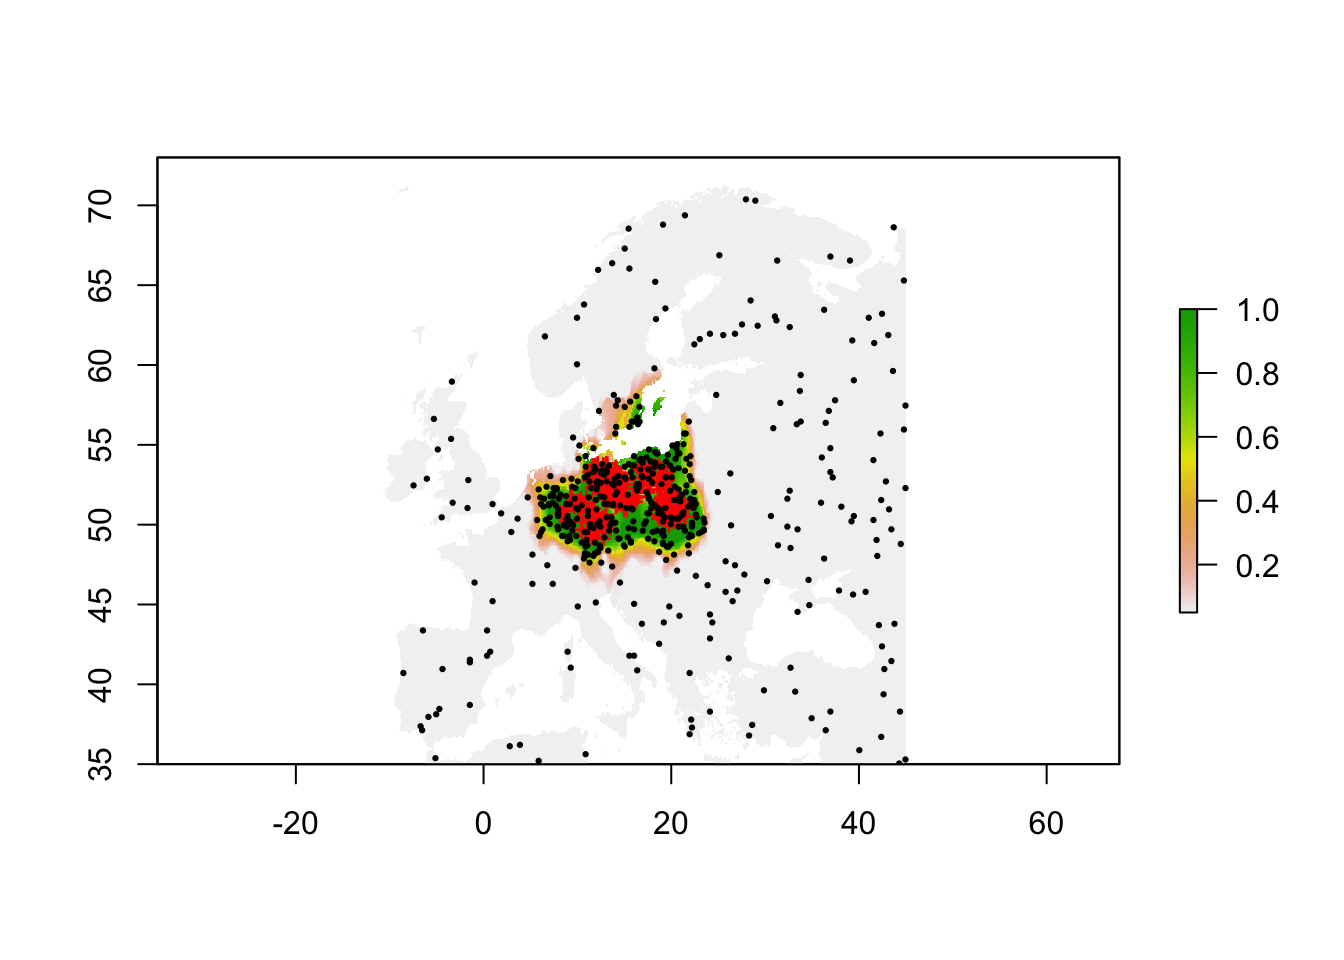
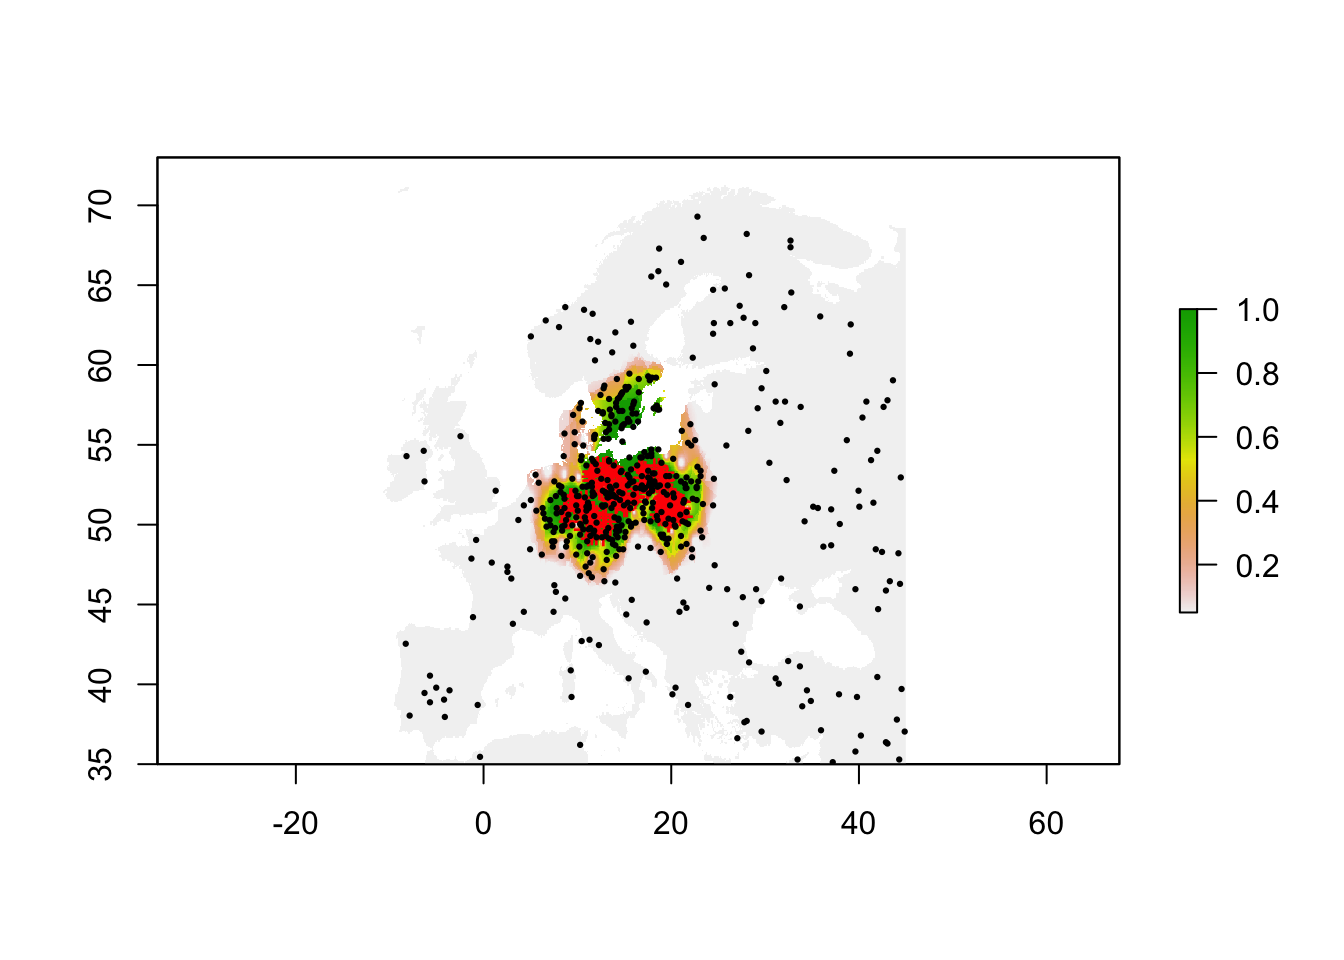
update pseudo-absences workflow

diff --git a/5_pseudoabsence.html b/5_pseudoabsence.html
@@ -572,44 +572,23 @@ points(bg_idw,pch=19,cex=0.3)</code></pre>
 <div id="workflow-for-joining-presence-and-backgroundpseudo-absence-data" class="section level1">
 <h1><span class="header-section-number">4</span> Workflow for joining presence and background/pseudo-absence data</h1>
 <p>In session 2, we have already learned how to join species data and environmental data (at 10 min resolution) using the Alpine Shrew as example species. Here, we will revisit this example, sample random background data and join these with environmental data to come up with a datset containing presences and background data as well as the climatic predictors.</p>
-<pre class="r"><code># Load the data set from session 2 containing species presence data and climate data:
-load(&#39;data/gbif_shrew_env.RData&#39;)
+<pre class="r"><code># Load the species presence data (here, the data set from session 1):
+load(&#39;data/gbif_shrew.RData&#39;)
 
-head(gbif_shrew_env)</code></pre>
+head(gbif_shrew[,1:4])</code></pre>
 <pre><code>##          key             scientificName decimalLatitude decimalLongitude
 ## 1 2251919320 Sorex alpinus Schinz, 1837        47.69411        13.681602
 ## 2 2330155268 Sorex alpinus Schinz, 1837        48.12057         8.109648
 ## 3 2269283117 Sorex alpinus Schinz, 1837        46.39159        10.421819
 ## 4 2610972391 Sorex alpinus Schinz, 1837        46.02428        10.828994
-## 6 2609080674 Sorex alpinus Schinz, 1837        46.19628        11.263646
-## 7 2423224540 Sorex alpinus Schinz, 1837        46.98664        10.811803
-##       basisOfRecord speciesKey       species year  cells bio1 bio2 bio3 bio4
-## 1 HUMAN_OBSERVATION    2435986 Sorex alpinus 2019 547643   47   94   33 6777
-## 2 HUMAN_OBSERVATION    2435986 Sorex alpinus 2019 543289   74   80   32 6125
-## 3 HUMAN_OBSERVATION    2435986 Sorex alpinus 2019 564903   14   64   28 5644
-## 4 HUMAN_OBSERVATION    2435986 Sorex alpinus 2019 569225   65   82   30 6522
-## 6 HUMAN_OBSERVATION    2435986 Sorex alpinus 2019 567068   85   94   31 6971
-## 7 HUMAN_OBSERVATION    2435986 Sorex alpinus 2019 558425  -25   53   26 5181
-##   bio5 bio6 bio7 bio8 bio9 bio10 bio11 bio12 bio13 bio14 bio15 bio16 bio17
-## 1  196  -88  284  132    1   132   -42  1495   183    89    26   529   293
-## 2  209  -41  250  151   30   151    -5  1147   120    77    15   342   250
-## 3  134  -90  224   85  -55    85   -55  1022   127    52    28   355   169
-## 4  211  -60  271  145  -19   148   -19   768    98    32    35   268   102
-## 6  242  -55  297  172   -7   172    -7   786    99    33    34   274   104
-## 7   78 -120  198   40  -86    41   -86  1464   162    96    17   464   310
-##   bio18 bio19
-## 1   529   324
-## 2   342   270
-## 3   355   169
-## 4   266   102
-## 6   274   104
-## 7   429   320</code></pre>
+## 5 2397538060 Sorex alpinus Schinz, 1837        46.39279        10.363006
+## 6 2609080674 Sorex alpinus Schinz, 1837        46.19628        11.263646</code></pre>
 <pre class="r"><code># Plot the species presences
 library(maptools)
 data(wrld_simpl)
 
 plot(wrld_simpl,xlim=c(-12,45), ylim=c(35,73))
-points(gbif_shrew_env$decimalLongitude, gbif_shrew_env$decimalLatitude, col=&#39;red&#39;,  pch=19)</code></pre>
+points(gbif_shrew$decimalLongitude, gbif_shrew$decimalLatitude, col=&#39;red&#39;,  pch=19)</code></pre>
 <p><img src="5_pseudoabsence_files/figure-html/unnamed-chunk-10-1.png" width="672" /></p>
 <p>You have already downloaded the climate data in session 2 and can simply read it back in. We crop it to European extent.</p>
 <pre class="r"><code># You may have to adjust the path to your folder structure:
@@ -617,9 +596,19 @@ clim &lt;- getData(&quot;worldclim&quot;, var=&quot;bio&quot;, res=10, download=
 
 # Crop to Europe
 clim &lt;- crop(clim, c(-12,45,35,73))</code></pre>
+<p>What is important to consider is that you kind of arbitrarily chose a scale of analysis by chosing climate data (or other environmental data) at a certain spatial resolution. Here, we chose a spatial resolution of 10 minutes while the species data may actually ba at a finer resolution. So, we first make sure that our species data are fit to the spatial resolution, meaning we remove any duplicates within 10 minute cells. We do this by joining the species data with the environmental data (basically, repeating what we had already done at the end of session 2). Then, we can remove the duplicate cells.</p>
+<pre class="r"><code># Extract environmental data and raster cellnumbers for the species data
+gbif_shrew2 &lt;- cbind(gbif_shrew[,c(&#39;decimalLongitude&#39;,&#39;decimalLatitude&#39;)], raster::extract(x = clim[[1]], 
+    y = data.frame(gbif_shrew[,c(&#39;decimalLongitude&#39;,&#39;decimalLatitude&#39;)]), cellnumbers=T ))
+
+# Now we remove the rows with duplicate cellnumbers:
+gbif_shrew2 &lt;- gbif_shrew2[!duplicated(gbif_shrew2$cells),]
+
+# Actually, we just need the new coordinates:
+gbif_shrew2 &lt;- gbif_shrew2[,c(&#39;decimalLongitude&#39;,&#39;decimalLatitude&#39;)]</code></pre>
 <p>We place a buffer of 200 km around the shrew records and sample background points randomly from within the buffer but excluding presence locations.</p>
 <pre class="r"><code># Make SpatialPointsDataFrame:
-presences &lt;- gbif_shrew_env[,c(&#39;decimalLongitude&#39;,&#39;decimalLatitude&#39;)]
+presences &lt;- gbif_shrew2
 coordinates(presences) &lt;- ~decimalLongitude + decimalLatitude
 projection(presences) &lt;- CRS(&#39;+proj=longlat +datum=WGS84&#39;)
 
@@ -639,86 +628,86 @@ plot(buf, add=T, col=&#39;grey60&#39;, legend=F)
 bg_dat &lt;- randomPoints(buf, length(presences)*10, p=presences)
 points(bg_dat, pch=19, cex=0.2, col=&#39;red&#39;)
 points(presences, pch=19, cex=0.5)</code></pre>
-<p><img src="5_pseudoabsence_files/figure-html/unnamed-chunk-13-1.png" width="672" /></p>
+<p><img src="5_pseudoabsence_files/figure-html/unnamed-chunk-14-1.png" width="672" /></p>
 <p>Last, we need to join the presences and background data, and extract the environmental data.</p>
 <pre class="r"><code># First, we prepare the presences data to contain a column indicating 1 for presence.
-sp_env &lt;- data.frame(gbif_shrew_env[,c(&#39;decimalLongitude&#39;,&#39;decimalLatitude&#39;)], occ=1)
+sp_env &lt;- data.frame(gbif_shrew2, occ=1)
 
 # Second, we make sure the background data have the same columns
 bg_dat &lt;- data.frame(bg_dat)
 summary(bg_dat)</code></pre>
 <pre><code>##        x                y        
-##  Min.   : 3.083   Min.   :43.08  
-##  1st Qu.: 8.083   1st Qu.:45.58  
-##  Median :13.417   Median :47.42  
-##  Mean   :13.209   Mean   :47.27  
-##  3rd Qu.:17.583   3rd Qu.:48.75  
-##  Max.   :25.083   Max.   :51.92</code></pre>
+##  Min.   : 3.083   Min.   :42.92  
+##  1st Qu.: 8.042   1st Qu.:45.75  
+##  Median :13.583   Median :47.58  
+##  Mean   :13.444   Mean   :47.42  
+##  3rd Qu.:18.083   3rd Qu.:48.92  
+##  Max.   :24.917   Max.   :51.92</code></pre>
 <pre class="r"><code>names(bg_dat) &lt;- c(&#39;decimalLongitude&#39;,&#39;decimalLatitude&#39;)
 bg_dat$occ &lt;- 0
 summary(bg_dat)</code></pre>
 <pre><code>##  decimalLongitude decimalLatitude      occ   
-##  Min.   : 3.083   Min.   :43.08   Min.   :0  
-##  1st Qu.: 8.083   1st Qu.:45.58   1st Qu.:0  
-##  Median :13.417   Median :47.42   Median :0  
-##  Mean   :13.209   Mean   :47.27   Mean   :0  
-##  3rd Qu.:17.583   3rd Qu.:48.75   3rd Qu.:0  
-##  Max.   :25.083   Max.   :51.92   Max.   :0</code></pre>
+##  Min.   : 3.083   Min.   :42.92   Min.   :0  
+##  1st Qu.: 8.042   1st Qu.:45.75   1st Qu.:0  
+##  Median :13.583   Median :47.58   Median :0  
+##  Mean   :13.444   Mean   :47.42   Mean   :0  
+##  3rd Qu.:18.083   3rd Qu.:48.92   3rd Qu.:0  
+##  Max.   :24.917   Max.   :51.92   Max.   :0</code></pre>
 <pre class="r"><code># Third, we bind these two data sets
 sp_env &lt;- rbind(sp_env, bg_dat)
 summary(sp_env)</code></pre>
 <pre><code>##  decimalLongitude decimalLatitude      occ         
-##  Min.   : 3.083   Min.   :43.08   Min.   :0.00000  
-##  1st Qu.: 7.721   1st Qu.:45.58   1st Qu.:0.00000  
-##  Median :12.750   Median :47.25   Median :0.00000  
-##  Mean   :12.962   Mean   :47.22   Mean   :0.09091  
-##  3rd Qu.:17.583   3rd Qu.:48.75   3rd Qu.:0.00000  
-##  Max.   :25.083   Max.   :51.92   Max.   :1.00000</code></pre>
+##  Min.   : 3.083   Min.   :42.92   Min.   :0.00000  
+##  1st Qu.: 7.750   1st Qu.:45.75   1st Qu.:0.00000  
+##  Median :12.958   Median :47.42   Median :0.00000  
+##  Mean   :13.176   Mean   :47.36   Mean   :0.09091  
+##  3rd Qu.:17.917   3rd Qu.:48.92   3rd Qu.:0.00000  
+##  Max.   :24.917   Max.   :51.92   Max.   :1.00000</code></pre>
 <pre class="r"><code># Last, we join this combined data set with the climate data.
 sp_env &lt;- cbind(sp_env, raster::extract(x = clim, y = sp_env[,c(&#39;decimalLongitude&#39;,&#39;decimalLatitude&#39;)], cellnumbers=T) )
 summary(sp_env)</code></pre>
 <pre><code>##  decimalLongitude decimalLatitude      occ              cells      
-##  Min.   : 3.083   Min.   :43.08   Min.   :0.00000   Min.   :43279  
-##  1st Qu.: 7.721   1st Qu.:45.58   1st Qu.:0.00000   1st Qu.:49783  
-##  Median :12.750   Median :47.25   Median :0.00000   Median :52794  
-##  Mean   :12.962   Mean   :47.22   Mean   :0.09091   Mean   :52868  
-##  3rd Qu.:17.583   3rd Qu.:48.75   3rd Qu.:0.00000   3rd Qu.:56204  
-##  Max.   :25.083   Max.   :51.92   Max.   :1.00000   Max.   :61374  
-##       bio1             bio2             bio3            bio4     
-##  Min.   :-25.00   Min.   : 53.00   Min.   :26.00   Min.   :5106  
-##  1st Qu.: 70.00   1st Qu.: 83.00   1st Qu.:29.00   1st Qu.:6212  
-##  Median : 83.00   Median : 88.00   Median :31.00   Median :6826  
-##  Mean   : 83.73   Mean   : 87.51   Mean   :30.91   Mean   :6802  
-##  3rd Qu.:102.00   3rd Qu.: 94.00   3rd Qu.:32.00   3rd Qu.:7364  
-##  Max.   :159.00   Max.   :105.00   Max.   :39.00   Max.   :8288  
+##  Min.   : 3.083   Min.   :42.92   Min.   :0.00000   Min.   :43280  
+##  1st Qu.: 7.750   1st Qu.:45.75   1st Qu.:0.00000   1st Qu.:49440  
+##  Median :12.958   Median :47.42   Median :0.00000   Median :52438  
+##  Mean   :13.176   Mean   :47.36   Mean   :0.09091   Mean   :52596  
+##  3rd Qu.:17.917   3rd Qu.:48.92   3rd Qu.:0.00000   3rd Qu.:55880  
+##  Max.   :24.917   Max.   :51.92   Max.   :1.00000   Max.   :61670  
+##       bio1             bio2            bio3            bio4     
+##  Min.   :-25.00   Min.   : 50.0   Min.   :25.00   Min.   :5047  
+##  1st Qu.: 70.00   1st Qu.: 83.0   1st Qu.:29.00   1st Qu.:6229  
+##  Median : 83.00   Median : 88.0   Median :31.00   Median :6862  
+##  Mean   : 82.54   Mean   : 87.3   Mean   :30.84   Mean   :6813  
+##  3rd Qu.:101.00   3rd Qu.: 94.0   3rd Qu.:32.00   3rd Qu.:7379  
+##  Max.   :159.00   Max.   :105.0   Max.   :39.00   Max.   :8390  
 ##       bio5            bio6              bio7            bio8      
-##  Min.   : 78.0   Min.   :-120.00   Min.   :198.0   Min.   :-72.0  
-##  1st Qu.:220.0   1st Qu.: -72.00   1st Qu.:260.0   1st Qu.:114.8  
-##  Median :235.0   Median : -49.00   Median :281.0   Median :156.0  
-##  Mean   :232.2   Mean   : -46.87   Mean   :279.1   Mean   :134.6  
-##  3rd Qu.:257.0   3rd Qu.: -24.00   3rd Qu.:301.0   3rd Qu.:171.0  
-##  Max.   :300.0   Max.   :  47.00   Max.   :329.0   Max.   :204.0  
-##       bio9            bio10         bio11             bio12       
-##  Min.   :-86.00   Min.   : 41   Min.   :-86.000   Min.   : 518.0  
-##  1st Qu.:-11.25   1st Qu.:157   1st Qu.:-29.000   1st Qu.: 704.8  
-##  Median : 13.00   Median :172   Median : -7.000   Median : 833.0  
-##  Mean   : 35.18   Mean   :169   Mean   : -5.687   Mean   : 899.0  
-##  3rd Qu.: 53.00   3rd Qu.:190   3rd Qu.: 14.000   3rd Qu.:1042.0  
-##  Max.   :239.00   Max.   :239   Max.   : 85.000   Max.   :1972.0  
-##      bio13           bio14            bio15           bio16      
-##  Min.   : 65.0   Min.   : 15.00   Min.   : 7.00   Min.   :173.0  
-##  1st Qu.: 86.0   1st Qu.: 35.00   1st Qu.:18.00   1st Qu.:238.0  
-##  Median :102.0   Median : 47.00   Median :26.00   Median :282.0  
-##  Mean   :107.6   Mean   : 50.72   Mean   :25.76   Mean   :299.8  
-##  3rd Qu.:125.0   3rd Qu.: 61.00   3rd Qu.:34.00   3rd Qu.:350.0  
-##  Max.   :195.0   Max.   :143.00   Max.   :46.00   Max.   :561.0  
+##  Min.   : 78.0   Min.   :-120.00   Min.   :193.0   Min.   :-72.0  
+##  1st Qu.:218.0   1st Qu.: -74.00   1st Qu.:261.8   1st Qu.:115.0  
+##  Median :234.0   Median : -51.00   Median :281.0   Median :156.0  
+##  Mean   :230.9   Mean   : -48.29   Mean   :279.2   Mean   :135.3  
+##  3rd Qu.:254.0   3rd Qu.: -25.00   3rd Qu.:301.0   3rd Qu.:172.0  
+##  Max.   :297.0   Max.   :  57.00   Max.   :329.0   Max.   :204.0  
+##       bio9            bio10           bio11             bio12       
+##  Min.   :-86.00   Min.   : 41.0   Min.   :-86.000   Min.   : 520.0  
+##  1st Qu.:-15.00   1st Qu.:156.0   1st Qu.:-30.000   1st Qu.: 690.0  
+##  Median : 12.00   Median :171.0   Median : -9.000   Median : 827.0  
+##  Mean   : 31.77   Mean   :167.8   Mean   : -7.091   Mean   : 886.2  
+##  3rd Qu.: 52.00   3rd Qu.:187.0   3rd Qu.: 13.000   3rd Qu.:1028.5  
+##  Max.   :236.00   Max.   :236.0   Max.   : 97.000   Max.   :1941.0  
+##      bio13           bio14            bio15          bio16      
+##  Min.   : 63.0   Min.   :  9.00   Min.   : 7.0   Min.   :169.0  
+##  1st Qu.: 86.0   1st Qu.: 34.00   1st Qu.:18.0   1st Qu.:238.0  
+##  Median :100.0   Median : 46.00   Median :27.0   Median :278.0  
+##  Mean   :106.7   Mean   : 49.66   Mean   :26.4   Mean   :297.1  
+##  3rd Qu.:125.0   3rd Qu.: 60.00   3rd Qu.:35.0   3rd Qu.:348.0  
+##  Max.   :195.0   Max.   :141.00   Max.   :46.0   Max.   :561.0  
 ##      bio17           bio18           bio19      
-##  Min.   : 74.0   Min.   : 84.0   Min.   : 80.0  
-##  1st Qu.:115.8   1st Qu.:215.0   1st Qu.:127.8  
-##  Median :153.5   Median :262.0   Median :171.5  
-##  Mean   :165.8   Mean   :273.8   Mean   :186.5  
-##  3rd Qu.:197.2   3rd Qu.:319.0   3rd Qu.:221.0  
-##  Max.   :453.0   Max.   :561.0   Max.   :516.0</code></pre>
+##  Min.   : 69.0   Min.   : 82.0   Min.   : 79.0  
+##  1st Qu.:111.8   1st Qu.:219.0   1st Qu.:120.8  
+##  Median :151.0   Median :260.0   Median :169.5  
+##  Mean   :162.3   Mean   :273.6   Mean   :182.3  
+##  3rd Qu.:193.0   3rd Qu.:322.2   3rd Qu.:220.2  
+##  Max.   :443.0   Max.   :561.0   Max.   :516.0</code></pre>
 <div class="alert alert-info">
 <p><em><strong>Exercise:</strong></em></p>
 <p>Use the GBIF data for your own species (from practical 1), sample background data and prepare a data set with species and climate data. Use these data to run SDMs.</p>
@@ -799,7 +788,7 @@ $(document).ready(function ()  {
       theme: "bootstrap3",
       context: '.toc-content',
       hashGenerator: function (text) {
-        return text.replace(/[.\\/?&!#<>]/g, '').replace(/\s/g, '_').toLowerCase();
+        return text.replace(/[.\\/?&!#<>]/g, '').replace(/\s/g, '_');
       },
       ignoreSelector: ".toc-ignore",
       scrollTo: 0

diff --git a/1_SpeciesData.html b/1_SpeciesData.html
@@ -435,13 +435,13 @@ div.tocify {
 
 # Check out the number of occurrences found in GBIF:
 occ_count()</code></pre>
-<pre><code>## [1] 1584669346</code></pre>
+<pre><code>## [1] 1584642076</code></pre>
 <pre class="r"><code># number of observations:
 occ_count(basisOfRecord=&#39;OBSERVATION&#39;)</code></pre>
 <pre><code>## [1] 19488039</code></pre>
 <pre class="r"><code># number of occurrences reported for Germany:
 occ_count(country=isocodes[grep(&quot;Germany&quot;, isocodes$name), &quot;code&quot;])</code></pre>
-<pre><code>## [1] 40826089</code></pre>
+<pre><code>## [1] 40826098</code></pre>
 <pre class="r"><code># number of observations reported for Germany:
 occ_count(country=isocodes[grep(&quot;Germany&quot;, isocodes$name), &quot;code&quot;],basisOfRecord=&#39;OBSERVATION&#39;)</code></pre>
 <pre><code>## [1] 298002</code></pre>
@@ -481,14 +481,23 @@ points(gbif_shrew$decimalLongitude, gbif_shrew$decimalLatitude, col=&#39;red&#39
 gbif_shrew &lt;- subset(gbif_shrew, !is.na(decimalLatitude))
 
 # We now clean the coordinates and check for outliers - see ?clean_coordinates for more options
-cl_gbif_shrew &lt;- clean_coordinates(gbif_shrew, lon=&quot;decimalLongitude&quot;, lat=&quot;decimalLatitude&quot;, countries=&quot;countryCode&quot;, tests=c(&quot;centroids&quot;, &quot;outliers&quot;, &quot;duplicates&quot;, &quot;institutions&quot;), inst_rad = 10000)
-
-plot(wrld_simpl,xlim=c(5,130), ylim=c(40,55))
+cl_gbif_shrew &lt;- clean_coordinates(gbif_shrew, lon=&quot;decimalLongitude&quot;, lat=&quot;decimalLatitude&quot;, countries=&quot;countryCode&quot;, tests=c(&quot;centroids&quot;, &quot;outliers&quot;, &quot;duplicates&quot;, &quot;institutions&quot;), inst_rad = 10000)</code></pre>
+<pre><code>## Testing coordinate validity</code></pre>
+<pre><code>## Flagged 0 records.</code></pre>
+<pre><code>## Testing country centroids</code></pre>
+<pre><code>## Flagged 2 records.</code></pre>
+<pre><code>## Testing geographic outliers</code></pre>
+<pre><code>## Flagged 1 records.</code></pre>
+<pre><code>## Testing biodiversity institutions</code></pre>
+<pre><code>## Flagged 13 records.</code></pre>
+<pre><code>## Testing duplicates</code></pre>
+<pre><code>## Flagged 117 records.</code></pre>
+<pre><code>## Flagged 128 of 242 records, EQ = 0.53.</code></pre>
+<pre class="r"><code>plot(wrld_simpl,xlim=c(5,130), ylim=c(40,55))
 points(gbif_shrew$decimalLongitude, gbif_shrew$decimalLatitude, col=&#39;red&#39;,  pch=19)
-points(gbif_shrew$decimalLongitude[cl_gbif_shrew$.summary], gbif_shrew$decimalLatitude[cl_gbif_shrew$.summary], col=&#39;blue&#39;,  pch=18)
-
-gbif_shrew &lt;- gbif_shrew[cl_gbif_shrew$.summary,]</code></pre>
+points(gbif_shrew$decimalLongitude[cl_gbif_shrew$.summary], gbif_shrew$decimalLatitude[cl_gbif_shrew$.summary], col=&#39;blue&#39;,  pch=18)</code></pre>
 <p><img src="1_SpeciesData_files/figure-html/unnamed-chunk-6-1.png" width="672" /></p>
+<pre class="r"><code>gbif_shrew &lt;- gbif_shrew[cl_gbif_shrew$.summary,]</code></pre>
 <div class="alert alert-info">
 <p><em><strong>Exercise:</strong></em></p>
 <p>Look up the options in <code>clean_coordinates()</code> and think about why I chose the specific tests and options.</p>
